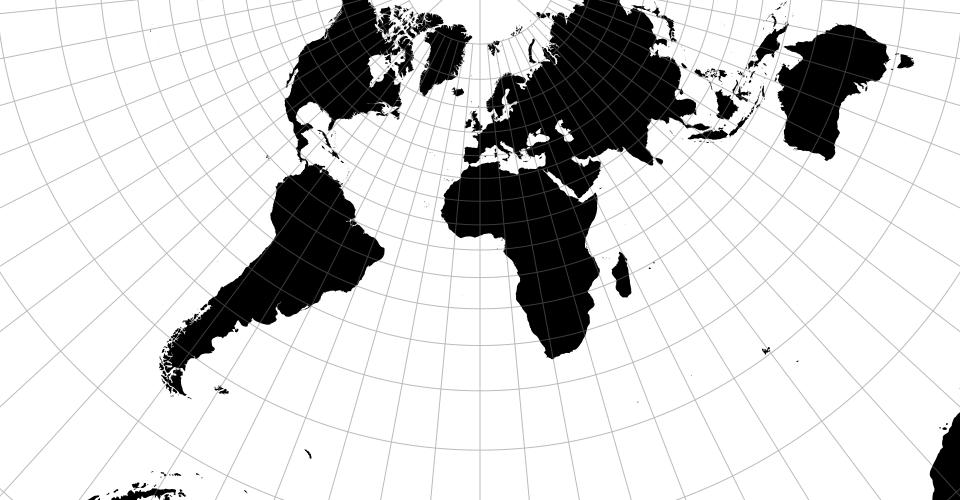
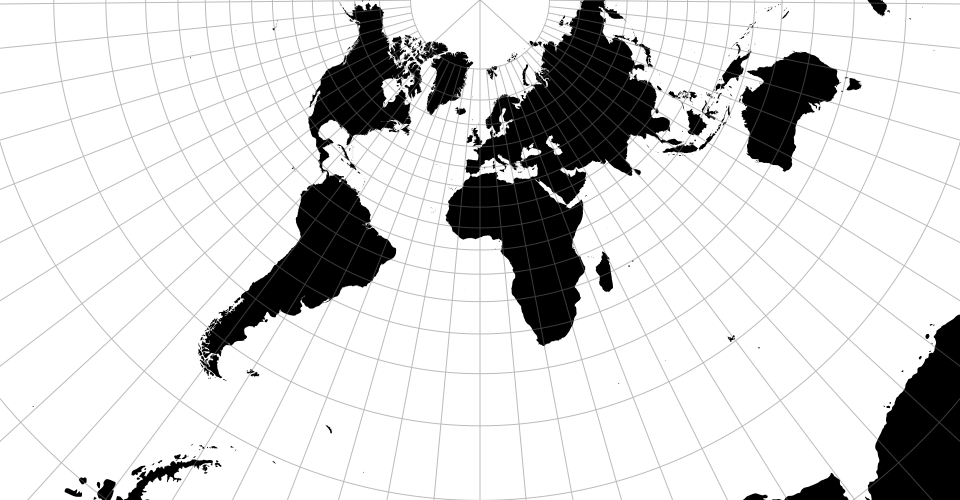
Fix #45 - better default scales.

diff --git a/src/projection/mercator.js b/src/projection/mercator.js
@@ -10,7 +10,8 @@ mercatorRaw.invert = function(x, y) {
 };
 
 export default function() {
-  return mercatorProjection(mercatorRaw);
+  return mercatorProjection(mercatorRaw)
+      .scale(961 / tau);
 }
 
 export function mercatorProjection(project) {
@@ -31,12 +32,13 @@ export function mercatorProjection(project) {
   m.clipExtent = function(_) {
     if (!arguments.length) return clipAuto ? null : clipExtent();
     if (clipAuto = _ == null) {
-      var k = pi * scale(), t = translate();
+      var k = pi * scale(),
+          t = translate();
       _ = [[t[0] - k, t[1] - k], [t[0] + k, t[1] + k]];
     }
     clipExtent(_);
     return m;
   };
 
-  return m.clipExtent(null).scale(961 / tau);
+  return m.clipExtent(null);
 }

diff --git a/src/projection/azimuthalEquidistant.js b/src/projection/azimuthalEquidistant.js
@@ -1,4 +1,4 @@
-import {acos, sin, tau} from "../math";
+import {acos, sin} from "../math";
 import {azimuthalRaw, azimuthalInvert} from "./azimuthal";
 import projection from "./index";
 
@@ -12,6 +12,6 @@ azimuthalEquidistantRaw.invert = azimuthalInvert(function(z) {
 
 export default function() {
   return projection(azimuthalEquidistantRaw)
-      .scale(480 / tau)
+      .scale(79.4188)
       .clipAngle(180 - 1e-3);
 }

diff --git a/src/projection/equirectangular.js b/src/projection/equirectangular.js
@@ -1,4 +1,3 @@
-import {pi} from "../math";
 import projection from "./index";
 
 export function equirectangularRaw(lambda, phi) {
@@ -8,5 +7,6 @@ export function equirectangularRaw(lambda, phi) {
 equirectangularRaw.invert = equirectangularRaw;
 
 export default function() {
-  return projection(equirectangularRaw).scale(480 / pi);
+  return projection(equirectangularRaw)
+      .scale(152.63);
 }

diff --git a/src/projection/transverseMercator.js b/src/projection/transverseMercator.js
@@ -22,5 +22,6 @@ export default function() {
     return arguments.length ? rotate([_[0], _[1], _.length > 2 ? _[2] + 90 : 90]) : (_ = rotate(), [_[0], _[1], _[2] - 90]);
   };
 
-  return rotate([0, 0, 90]);
+  return rotate([0, 0, 90])
+      .scale(159.155);
 }

diff --git a/src/projection/conicEquidistant.js b/src/projection/conicEquidistant.js
@@ -24,6 +24,6 @@ export function conicEquidistantRaw(y0, y1) {
 
 export default function() {
   return conicProjection(conicEquidistantRaw)
-      .scale(128)
-      .translate([480, 280]);
+      .scale(131.154)
+      .center([0, 13.9389]);
 }

diff --git a/src/projection/conicEqualArea.js b/src/projection/conicEqualArea.js
@@ -22,6 +22,6 @@ export function conicEqualAreaRaw(y0, y1) {
 
 export default function() {
   return conicProjection(conicEqualAreaRaw)
-      .scale(151)
-      .translate([480, 347]);
+      .scale(155.424)
+      .center([0, 33.6442]);
 }

diff --git a/src/projection/azimuthalEqualArea.js b/src/projection/azimuthalEqualArea.js
@@ -12,6 +12,6 @@ azimuthalEqualAreaRaw.invert = azimuthalInvert(function(z) {
 
 export default function() {
   return projection(azimuthalEqualAreaRaw)
-      .scale(120)
+      .scale(124.75)
       .clipAngle(180 - 1e-3);
 }

diff --git a/src/projection/conicConformal.js b/src/projection/conicConformal.js
@@ -29,5 +29,6 @@ export function conicConformalRaw(y0, y1) {
 }
 
 export default function() {
-  return conicProjection(conicConformalRaw);
+  return conicProjection(conicConformalRaw)
+      .scale(131.8);
 }

diff --git a/src/projection/orthographic.js b/src/projection/orthographic.js
@@ -10,6 +10,6 @@ orthographicRaw.invert = azimuthalInvert(asin);
 
 export default function() {
   return projection(orthographicRaw)
-      .scale(240)
+      .scale(249.5)
       .clipAngle(90 + epsilon);
 }

diff --git a/src/projection/stereographic.js b/src/projection/stereographic.js
@@ -13,6 +13,6 @@ stereographicRaw.invert = azimuthalInvert(function(z) {
 
 export default function() {
   return projection(stereographicRaw)
-      .scale(240)
+      .scale(250)
       .clipAngle(142);
 }

diff --git a/src/projection/gnomonic.js b/src/projection/gnomonic.js
@@ -11,6 +11,6 @@ gnomonicRaw.invert = azimuthalInvert(atan);
 
 export default function() {
   return projection(gnomonicRaw)
-      .scale(139)
+      .scale(144.049)
       .clipAngle(60);
 }
